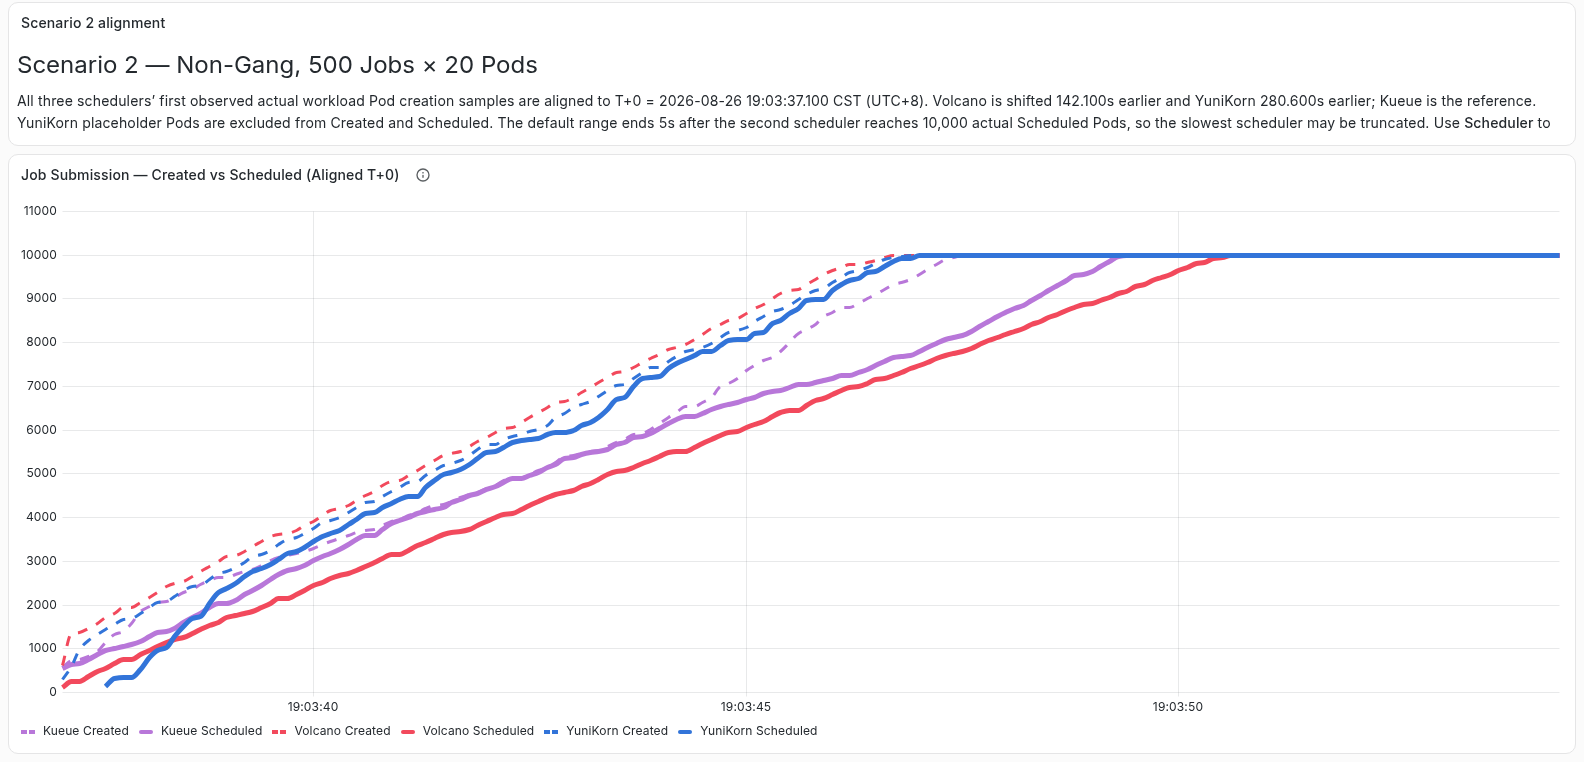
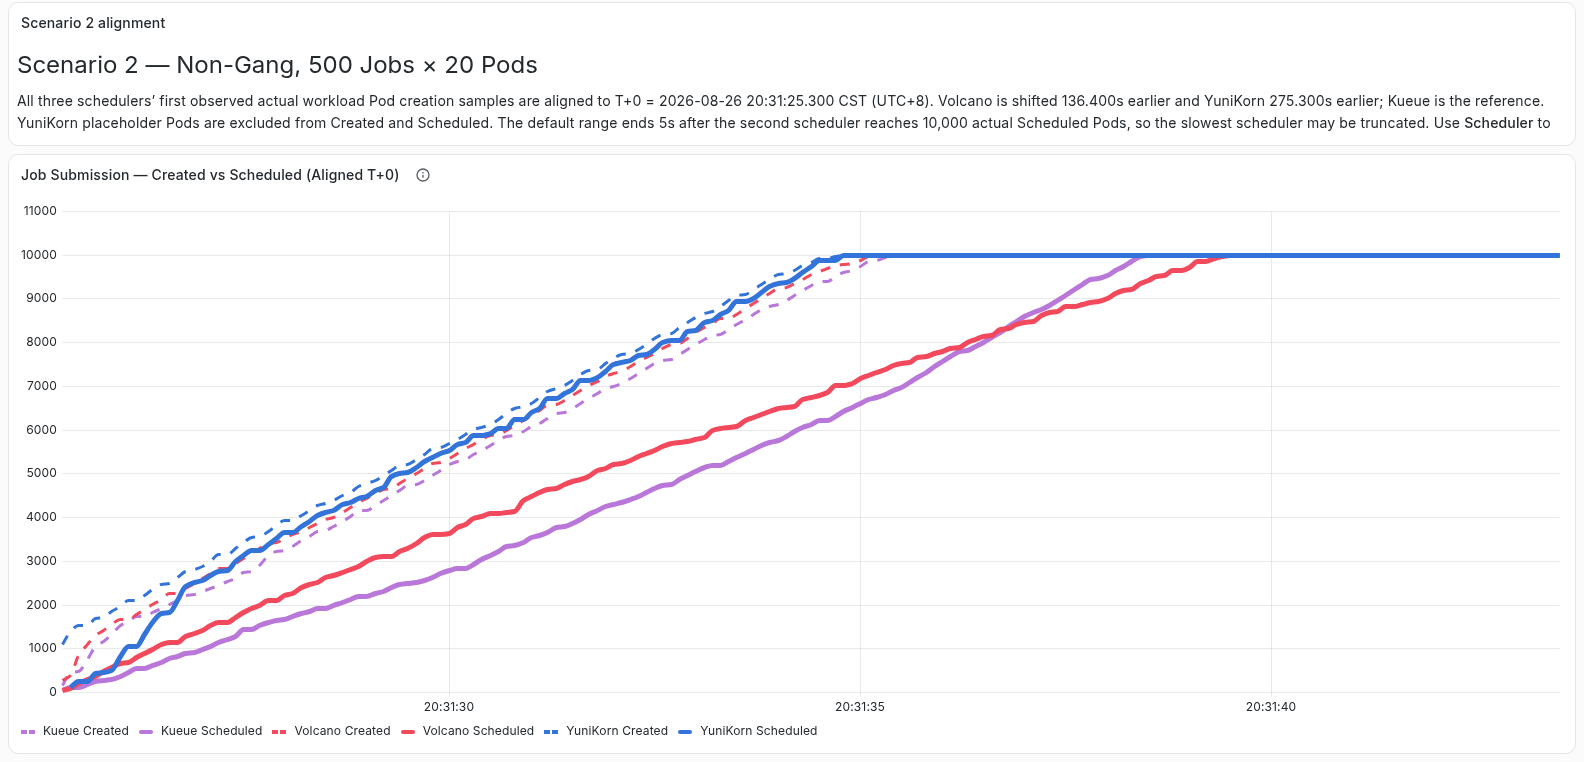
results: scenario test 1-4 082620

diff --git a/scenario_test_report_082620.md b/scenario_test_report_082620.md
@@ -1,0 +1,31 @@
+# 场景测试报告（通过）
+
+## 1. 执行概要
+
+- 测试 Commit：`42984ea3e065041a313fa41954b76d01a7931e08`
+- 请求顺序：场景 1、2、3、4
+- 执行命令：依次执行 `make scenario-1`、`make scenario-2`、`make scenario-3`、`make scenario-4`；每个命令完成后执行 `make down`
+- tmux 会话：`scenario-test-20260826202039`
+- CST 总时间：`2026-08-26 20:20:50` 至 `2026-08-26 20:54:01`
+- 总耗时：`33m11.216s`
+- 场景退出码：1（make 0，down 0）；2（make 0，down 0）；3（make 0，down 0）；4（make 0，down 0）
+- TestBatchJob：`12/12` Case 通过
+- 更新结果：`4/4` 个请求场景
+- 总体状态：通过
+
+## 2. 场景时间边界与结果目录
+
+| 场景 | 模式与参数 | CST（UTC+8）时间边界 | 耗时 | 指标时间窗（毫秒） | 结果目录 | 结果 |
+|---|---|---|---|---|---|---|
+| 1 | agent；队列 1；每队列 Job 10000；每 Job Pod 1 | 2026-08-26 20:20:50–20:31:03 | 10m13.609s | 1787746850222–1787747374978 | `results/scenario-1` | 通过 |
+| 2 | agent；队列 1；每队列 Job 500；每 Job Pod 20 | 2026-08-26 20:31:03–20:38:41 | 7m37.756s | 1787747463847–1787747858016 | `results/scenario-2` | 通过 |
+| 3 | agent；队列 1；每队列 Job 20；每 Job Pod 500 | 2026-08-26 20:38:41–20:46:16 | 7m34.833s | 1787747921619–1787748313148 | `results/scenario-3` | 通过 |
+| 4 | agent；队列 1；每队列 Job 1；每 Job Pod 10000 | 2026-08-26 20:46:16–20:54:01 | 7m45.018s | 1787748376465–1787748777982 | `results/scenario-4` | 通过 |
+
+## 3. 问题说明
+
+未发现影响结论的问题。四个场景的结果目录和指标文件完整，`job-submission.png` 均已生成。每次 `make down` 均成功清理实验资源并恢复基线。
+
+## 4. 最终结论
+
+通过。场景 1–4 全部按请求顺序执行，12/12 个 TestBatchJob Case 通过，4 个结果目录均更新且完整；最终 `verify-base.sh 1000`、`verify-schedulers.sh` 和 `verify-monitoring.sh` 均通过，调度器组件与 Audit Exporter 已恢复到一副本空闲基线。
